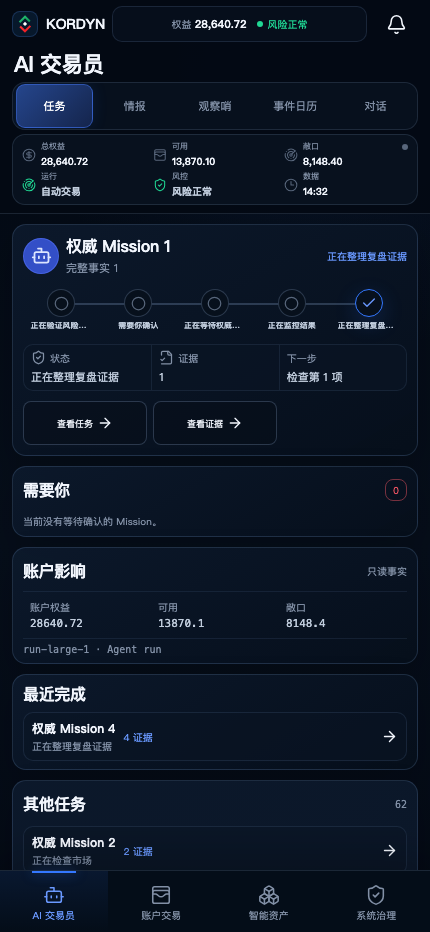
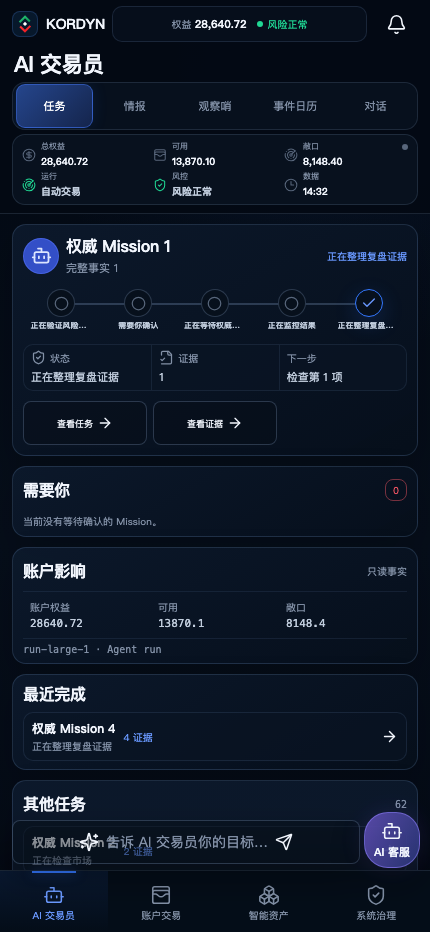
docs: correct AI domain evidence

Changed region(s): [[0.0605, 0.8712, 0.6047, 0.9335], [0.8465, 0.8712, 0.9977, 0.9335], [0.6349, 0.8712, 0.6953, 0.9335]]

diff --git a/docs/kordyn-v2-evidence.md b/docs/kordyn-v2-evidence.md
@@ -1,13 +1,21 @@
 # KORDYN V2 implementation evidence
 
-## Foundation checkpoint
+## Current governed comparison status
+
+- Current production and capture source: `14cb43a0818d94703f83450c14d7582aafeccd9e`.
+- Current comparison scope: Foundation Plan 01 shared shell plus the completed Plan 02 AI-domain checkpoint.
+- Completed concept comparisons: `4 / 15` — Desktop AI Mission, Desktop AI Signals, APP AI Mission, and APP AI Approval.
+- Pending domain implementation: `11 / 15` — no production comparison or fidelity claim is made for these remaining surfaces.
+- Current Task 5 verdict: all eight AI comparisons retain the machine verdict `human region review required`; original-size human region review found no remaining material topology, density, hierarchy, permission, state, or action-meaning mismatch.
+
+## Historical Foundation checkpoint — Plan 01 / Task 8
 
 - Foundation remediation base: `342278a01c2194e9791a3065297263d10e920993`.
 - Visual authority: the 15 immutable sources pinned by `docs/kordyn-v2-approved-concept-manifest.md`.
-- Current comparison scope: Foundation Plan 01 shared shell only.
-- Completed concept comparisons: `2 / 15` — Desktop AI Mission shell and Mobile AI Mission shell.
-- Pending domain implementation: `13 / 15` — no production comparison or fidelity claim is made for these surfaces.
-- Current independent verdict: **Task 8 APPROVE — 0 Critical / 0 Important / 0 Minor; visual 390/430 PASS.** The position Important was formally withdrawn after response-boundary verification. The Foundation gate is clear; Plan 02 is unblocked but has not been started.
+- Historical comparison scope at that checkpoint: Foundation Plan 01 shared shell only.
+- Historical completed comparisons at that checkpoint: `2 / 15` — Desktop AI Mission shell and Mobile AI Mission shell.
+- Historical pending count at that checkpoint: `13 / 15`.
+- Historical independent verdict: **Task 8 APPROVE — 0 Critical / 0 Important / 0 Minor; visual 390/430 PASS.** The position Important was formally withdrawn after response-boundary verification. Task 8 cleared the Foundation gate before Plan 02 began; the canonical current status is the `4 / 15` and `11 / 15` Task 5 status above.
 
 ## Staged concept coverage
 
@@ -91,7 +99,7 @@ The approved `853x1844` source (`6e0eda474f6658ff9dbfcbc6b18d4503203a78ddb30e38a
 - The concept’s unsupported daily PnL is not fabricated. Production overview response boundaries already call `server/positionView.mjs::normalizePositionsForUi`, which merges engine/REST/WS mirrors and emits canonical `quantity=coinSize`, `pnl/unrealizedPnl`, and `notional=coinSize×mark`. A test-only integration sends three real raw mirrors through that existing server projection before mounting the real Root and proves one position, `123.45` PnL, `3,400.00` notional, and no fabricated `0.00`; no client schema or backend/API change was added.
 - Loaded pending-action/risk-incident identity remains canonical and read-only. Notification, four roots, all five AI-local destinations, prompt, AI 客服, and evidence navigation invoke zero production writes.
 
-Final independent review reports `APPROVE`, `0 Critical / 0 Important / 0 Minor`, and original-resolution visual PASS at both `390x844` and `430x932`. The round-3 position Important was formally withdrawn because the actual server response boundary already owns normalization, backed by the integration contract above. Pixel metrics remain diagnostic only. Physical-device and live-payload variance remain a recorded non-blocking limitation. **The Foundation gate is clear; Plan 02 is unblocked but was not started by Task 8.**
+Final historical Task 8 review reports `APPROVE`, `0 Critical / 0 Important / 0 Minor`, and original-resolution visual PASS at both `390x844` and `430x932`. The round-3 position Important was formally withdrawn because the actual server response boundary already owns normalization, backed by the integration contract above. Pixel metrics remain diagnostic only. Physical-device and live-payload variance remain a recorded non-blocking limitation. Task 8 cleared the Foundation gate before Plan 02 began; the canonical current Task 5 status is recorded at the top of this document.
 
 ## Fresh isolated performance evidence
 
@@ -132,11 +140,11 @@ Completed freshly during Task 8:
 - hard scans found no `!important`, legacy stylesheet import, or production-fixture import under `src/kordynV2`;
 - `git diff --check`: exit `0` before report finalization.
 
-The final independent review supplements the mechanical gates with `APPROVE`, `0 Critical / 0 Important / 0 Minor`, and visual PASS at both required APP sizes. Plan 02 is unblocked by the Foundation gate but remains unstarted in this task.
+The final historical Task 8 review supplements the Foundation mechanical gates with `APPROVE`, `0 Critical / 0 Important / 0 Minor`, and visual PASS at both required APP sizes. At the close of Task 8, Plan 02 had not yet begun; that historical point is superseded by the canonical current Task 5 status above.
 
 ## Plan 02 AI domain checkpoint — Task 5
 
-Task 5 closes the AI-domain evidence gate against production source commit `587ee350773415846db795b45665b98ee28bf58e`. The evidence runner mounts the actual production `KordynV2Root` and its committed lazy AI domain. `tests/kordyn-v2-production-fixture.js` supplies bounded production-shaped data and authoritative delayed outcomes; it is not imported by production, contains no credentials, and performs no production write. The canonical capture sidecar, state sidecar, comparison index, and every AI geometry ledger record or inherit this exact production source commit.
+Task 5 closes the AI-domain evidence gate against production and capture source commit `14cb43a0818d94703f83450c14d7582aafeccd9e`. The evidence runner mounts the actual production `KordynV2Root` and its committed lazy AI domain. `tests/kordyn-v2-production-fixture.js` supplies bounded production-shaped data and authoritative delayed outcomes; it is not imported by production, contains no credentials, and performs no production write. The canonical capture sidecar, state sidecar, comparison index, and every AI geometry ledger record or inherit this exact product commit; the later evidence/docs commit does not replace this source provenance.
 
 ### Capability ownership — 8 / 8
 
@@ -179,7 +187,7 @@ Canonical `state-evidence.json` covers the 13 screenshots at the four immutable 
 
 The fresh master gate physically clicks real production rows and controls for Mission, Signal, Watch, Event, one-shot approval, dialog, translation, and PNG output. The identity chain is the clicked row type plus Root selected ID/type plus Context and Proof `Type / ID`. Mission Proof also exposes the exact `createdAt=2026-08-30T00:01:07.000Z` and `updatedAt=2026-08-30T00:12:11.000Z`; missing `completedAt` remains `Unavailable`.
 
-Approval is exercised with a delayed authoritative response: processing appears first, terminal success is absent before the response, and authoritative failed/partial outcomes remain visible. Dialog POST is followed by the authoritative GET reread. PNG evidence uses the real `html-to-image` path after fonts are ready; it is not stubbed. Keyboard focus containment, Escape close, focus return, APP target size, and zero authority writes in every capture document are asserted.
+Approval is exercised with a delayed authoritative response: processing appears first, terminal success is absent before the response, and authoritative failed/partial outcomes remain visible. Dialog POST is followed by the authoritative GET reread. PNG evidence uses the real `html-to-image` path after fonts are ready; it is not stubbed. Keyboard focus containment, Escape close, focus return, APP target size, and zero authority writes in every capture document are asserted. At both `390` and `430`, an open Approval removes the support launcher from rendering, layout, focus, and the accessible interaction path; support-primary, support-navigation, and primary-navigation overlap are all `0`. The primary action remains `52px` high, the bottom navigation remains `62px` high, and protected focus remains inside the Approval. Closing restores the enabled `56x56` support target; a trusted click opens its real sheet and Escape returns focus to the launcher.
 
 ### Canonical AI captures and comparisons
 
@@ -193,16 +201,16 @@ Capture root: `.impeccable/review/kordyn-v2/ai/` (`23` files: eight approved-sur
[7 lines of base64/hex data omitted]
 
 The comparator reports `15 concepts / 4 completed / 11 pending / 8 comparisons / 33 artifacts`. Its top-level verdict remains `human region review required`; pixel MAE is diagnostic only and no threshold was changed. Sidecar/index SHA-256 values are:
 
[6 lines of base64/hex data omitted]
 
-All eight final actuals and every normalized reference, 50% overlay, absolute difference, and geometry ledger were reopened at original size. Desktop Mission retains the approved queue / active Mission / lifecycle / decision summary / related context / runtime receipt hierarchy. Desktop Signals retains filters / dense Registry / Inspector / decision boundary / Watch-Event-Intelligence lower registries. APP Mission retains account truth / active Mission / attention / account impact / recent completion / command order. APP Approval retains task / plan / account impact / 12-of-12 risk / AI-used facts / acknowledgement / sticky guarded actions. Production-shaped fact availability, exact labels, icons, and local density differ from the concept rasters, but no remaining difference materially recomposes topology, density, hierarchy, protected state, or action meaning.
+All eight final actuals and every normalized reference, 50% overlay, absolute difference, and geometry ledger were reopened at original size. Desktop Mission retains the approved queue / active Mission / lifecycle / decision summary / related context / runtime receipt hierarchy. Desktop Signals retains filters / dense Registry / Inspector / decision boundary / Watch-Event-Intelligence lower registries. APP Mission retains account truth / active Mission / attention / account impact / recent completion / command order. APP Approval retains task / plan / account impact / 12-of-12 risk / AI-used facts / acknowledgement / sticky guarded actions. The fresh Approval actuals contain no support-launcher sliver over the protected action region; the normalized reference still contains its historical launcher, so that local difference is an intentional safety correction rather than a product-model mismatch. Production-shaped fact availability, exact labels, icons, and local density differ from the concept rasters, but no remaining difference materially recomposes topology, density, hierarchy, protected state, or action meaning.
 
 ### Fresh Task 5 gates
 
@@ -210,7 +218,7 @@ All eight final actuals and every normalized reference, 50% overlay, absolute di
 - full repository suite: `1872 / 1872`, exit `0`;
 - ESLint: exit `0`;
 - production build: exit `0`, `1702` modules transformed;
-- isolated performance/manifest: public `375,992 / 450,000` JS and `15,304 / 40,000` CSS; AI shell `53,117 / 180,000` CSS; one unique public-owned structural V2 dynamic entry, exact AI child ownership, no legacy product styles;
+- isolated performance/manifest: public `375,992 / 450,000` JS and `15,304 / 40,000` CSS; AI shell `53,221 / 180,000` CSS; one unique public-owned structural V2 dynamic entry, exact AI child ownership, no legacy product styles;
 - Task 2 Mission, Task 3 Context, Task 4 Actions, AI visual regression, APP overflow, and Task 5 master real-Chrome gates: exit `0` at all required viewports;
 - Task 5 master: `8` captures, Mission/Signal/Watch/Event identity, failed+partial approval, Desktop+APP dialog/output, `13 / 13` states;
 - AI comparator: `4 / 11 / 8 / 33`, exit `0`, unchanged references and thresholds;
